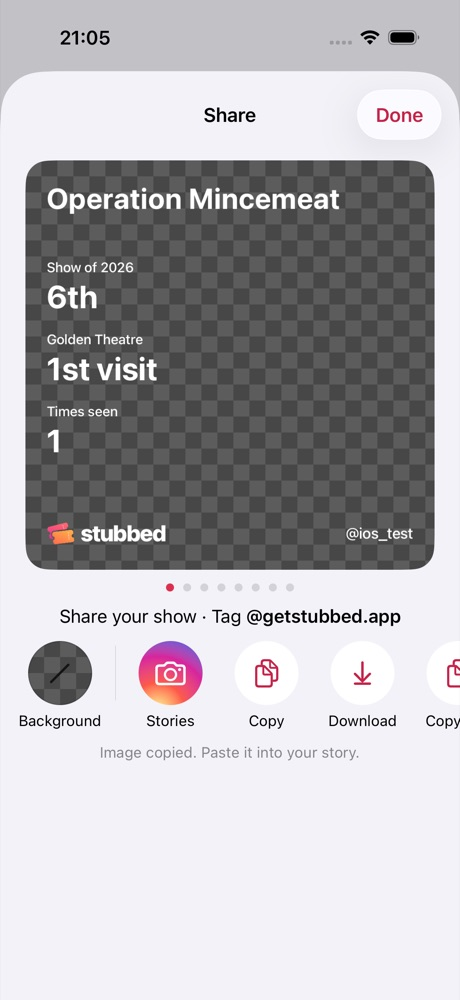
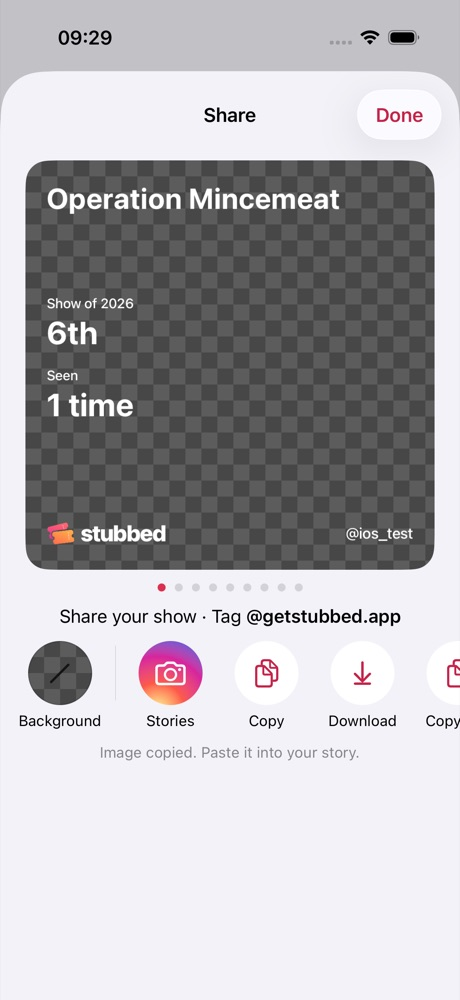
Prioritize show stats and add a dedicated venue visits card

Changed region(s): [[0.0913, 0.248, 0.3348, 0.465], [0.3348, 0.558, 0.6391, 0.589], [0.1217, 0.031, 0.2435, 0.062]]

diff --git a/apps/ios/Stubbed/Screens/Share/EntryCard.swift b/apps/ios/Stubbed/Screens/Share/EntryCard.swift
@@ -17,6 +17,7 @@ struct EntryCardData: Hashable, Sendable {
 enum EntryCardDesign: String, CaseIterable, Identifiable, Sendable {
   case stats, name, data, encore, overlay, ticket
   case number = "show-number"
+  case venue = "venue-visits"
   var id: String { rawValue }
   var name: String {
     switch self {
@@ -27,12 +28,14 @@ enum EntryCardDesign: String, CaseIterable, Identifiable, Sendable {
     case .number: "Show number"
     case .overlay: "Show overlay"
     case .ticket: "Ticket stub"
+    case .venue: "Venue visits"
     }
   }
   var isPhoto: Bool { self == .stats || self == .name }
-  static func available(photo: Bool, rating: Double?, timesSeen: Int) -> [Self] {
+  static func available(photo: Bool, rating: Double?, timesSeen: Int, venue: String? = nil, venueVisit: Int = 0) -> [Self] {
     (photo ? [.stats] + (rating != nil ? [.name] : []) : [])
       + [.data, .encore, .number, .overlay, .ticket]
+      + (venue?.trimmingCharacters(in: .whitespacesAndNewlines).isEmpty == false && venueVisit > 0 ? [.venue] : [])
   }
 }
 
@@ -55,6 +58,10 @@ func ordinal(_ n: Int) -> String {
   }
 }
 
+func formatTimes(_ count: Int) -> String {
+  "\(count) \(count == 1 ? "time" : "times")"
+}
+
 struct EntryCardView: View {
   let design: EntryCardDesign
   let data: EntryCardData
@@ -63,10 +70,7 @@ struct EntryCardView: View {
   static let size: CGFloat = 540
   private var ink: Color { design.isPhoto ? .white : appearance.foreground }
   private var metrics: [(String, String)] {
-    var result = [("Show of \(data.year)", ordinal(data.showOfYear))]
-    if let venue = data.venue { result.append((venue, "\(ordinal(data.venueVisit)) visit")) }
-    result.append(("Times seen", String(data.timesSeen)))
-    return result
+    [("Show of \(data.year)", ordinal(data.showOfYear)), ("Seen", formatTimes(data.timesSeen))]
   }
   var body: some View {
     ZStack {
@@ -82,6 +86,8 @@ struct EntryCardView: View {
       } else { ShareCardSurface(appearance: appearance) }
       if design == .ticket {
         TicketOverlayCard(data: data, ink: ink)
+      } else if design == .venue {
+        VenueVisitCard(data: data, appearance: appearance)
       } else if design == .overlay {
         ShowOverlayCard(data: data, ink: ink)
       } else {
@@ -135,6 +141,29 @@ struct EntryCardView: View {
   }
 }
 
+/// Fixed regions keep long venue/show names clear of the count and footer.
+private struct VenueVisitCard: View {
+  let data: EntryCardData
+  let appearance: ShareAppearance
+  private var ink: Color { appearance.foreground }
+
+  var body: some View {
+    ZStack(alignment: .topLeading) {
+      Text("Venue").font(.system(size: 18, weight: .medium)).offset(x: 28, y: 28)
+      CardTitle(text: data.venue ?? "", size: 38, lineHeight: 42, width: 484, ink: ink)
+        .offset(x: 28, y: 58)
+      Text("Visited").font(.system(size: 18, weight: .medium)).offset(x: 28, y: 192)
+      Text(formatTimes(data.venueVisit)).font(.system(size: 64, weight: .heavy)).tracking(-1)
+        .foregroundStyle(appearance.statsAccent).lineLimit(1).minimumScaleFactor(0.6)
+        .frame(width: 484, alignment: .leading).offset(x: 28, y: 220)
+      Text("Seeing").font(.system(size: 18, weight: .medium)).offset(x: 28, y: 354)
+      CardTitle(text: data.title, size: 28, lineHeight: 32, width: 484, ink: ink)
+        .offset(x: 28, y: 384)
+      CardFooter(handle: data.handle, ink: ink).frame(width: 484).offset(x: 28, y: 472)
+    }.foregroundStyle(ink).frame(width: 540, height: 540, alignment: .topLeading)
+  }
+}
+
 /// Four equally sized sections, followed by the design system's outline icon.
 private struct ShowOverlayCard: View {
   let data: EntryCardData
@@ -146,7 +175,7 @@ private struct ShowOverlayCard: View {
       VStack(spacing: 8) {
         section("Show", value: data.title, title: true)
         section("Date", value: today.formatted(.dateTime.weekday(.abbreviated).day().month(.abbreviated).year().locale(Locale(identifier: "en_GB"))))
-        section("Seen", value: "\(data.timesSeen) \(data.timesSeen == 1 ? "time" : "times")")
+        section("Seen", value: formatTimes(data.timesSeen))
         section(data.year == Calendar.current.component(.year, from: today) ? "This year so far" : "\(data.year) so far",
           value: "\(ordinal(data.showOfYear)) show")
       }.padding(.top, 48)
@@ -184,7 +213,7 @@ private struct TicketOverlayCard: View {
           Text(today, format: .dateTime.weekday(.abbreviated).day().month(.abbreviated).year())
             .font(.system(size: 18, weight: .medium))
         }.frame(width: 368, alignment: .leading).offset(x: 56, y: 44)
-        stat("Seen", value: "\(data.timesSeen) \(data.timesSeen == 1 ? "time" : "times")", width: 148)
+        stat("Seen", value: formatTimes(data.timesSeen), width: 148)
           .offset(x: 56, y: 194)
         stat(data.year == Calendar.current.component(.year, from: today) ? "This year so far" : "\(data.year) so far",
           value: "\(ordinal(data.showOfYear)) show", width: 168).offset(x: 246, y: 194)

diff --git a/apps/web/test/sharing.test.ts b/apps/web/test/sharing.test.ts
@@ -1,6 +1,6 @@
 import assert from "node:assert/strict";
 import { test } from "node:test";
-import { availableEntryDesigns, cardBackground, entryMetrics, type CardData } from "@/lib/share-card";
+import { availableEntryDesigns, cardBackground, entryMetrics, formatTimes, type CardData } from "@/lib/share-card";
 import { availableInsightDesigns, availableShowDesigns, isInsightDesign, monthlyShareCounts, radarShareValues, type InsightCardData } from "@/lib/share-card-insights";
 const entry: CardData = { title: "Operation Mincemeat", venue: "Fortune Theatre", where: "London", date: "1 Nov 2026", year: 2026, rating: 0.5, showOfYear: 24, venueVisit: 3, timesSeen: 5, handle: "sillyelphaba" };
 const insights: InsightCardData = { year: 2026, handle: "sillyelphaba", stats: { total: 24, unique_shows: 18,
@@ -8,14 +8,14 @@ const insights: InsightCardData = { year: 2026, handle: "sillyelphaba", stats: {
   years: [{ year: 2026, count: 24 }], months: [{ month: "2025-01", count: 99 }, { month: "2026-10", count: 24 }],
   types: [{ type: "play", count: 6 }, { type: "musical", count: 12 }, { type: "opera", count: 2 }, { type: "comedy", count: 2 }, { type: "dance", count: 1 }, { type: "standup", count: 1 }] } };
 test("entry sharing separates photo eligibility, saved ratings and repeat visits", () => {
-  assert.deepEqual(availableEntryDesigns(entry, true).map(d => d.id), ["stats", "name", "data", "encore", "show-number", "overlay", "ticket"]);
-  assert.deepEqual(availableEntryDesigns({ ...entry, rating: null, timesSeen: 1 }, false).map(d => d.id), ["data", "encore", "show-number", "overlay", "ticket"]);
+  assert.deepEqual(availableEntryDesigns(entry, true).map(d => d.id), ["stats", "name", "data", "encore", "show-number", "overlay", "ticket", "venue-visits"]);
+  assert.deepEqual(availableEntryDesigns({ ...entry, rating: null, timesSeen: 1 }, false).map(d => d.id), ["data", "encore", "show-number", "overlay", "ticket", "venue-visits"]);
   assert.ok(!availableEntryDesigns({ ...entry, rating: null }, true).some(d => d.id === "name"));
   for (const design of availableEntryDesigns(entry, true)) assert.equal(cardBackground(design, "transparent"), design.background ? "transparent" : "photo");
 });
 test("data cards never acquire rating fields or duplicate the missing venue", () => {
-  assert.deepEqual(entryMetrics(entry).map(m => m.value), ["24th", "3rd visit", "5"]);
-  assert.deepEqual(entryMetrics({ ...entry, venue: null }).map(m => m.label), ["Show of 2026", "Times seen"]);
+  assert.deepEqual(entryMetrics(entry).map(m => m.value), ["24th", "5 times"]);
+  assert.deepEqual(entryMetrics({ ...entry, venue: null }).map(m => m.label), ["Show of 2026", "Seen"]);
 });
 test("Insights period selection cannot relabel live streaks or make a fake All time year", () => {
   assert.deepEqual(availableInsightDesigns(insights, 2026).map(d => d.id), ["weekly-streak", "year-in-theatre", "show-mix"]);
@@ -29,13 +29,27 @@ test("charts preserve monthly periods and canonical show-type order", () => {
   assert.deepEqual(radarShareValues(insights), [12, 6, 2, 1, 2, 1, 0]);
 });
 
-test("one show offers all ten designs and names the first count card truthfully", () => {
+test("one show offers all eleven designs and names the first count card truthfully", () => {
   const designs = availableShowDesigns({ ...entry, timesSeen: 1, year: 2025 }, true, { ...insights, year: new Date().getFullYear() });
-  assert.equal(designs.length, 10);
+  assert.equal(designs.length, 11);
   assert.equal(designs.find(d => d.id === "encore")?.name, "First visit");
   assert.equal(availableEntryDesigns(entry, true).find(d => d.id === "encore")?.name, "Encore");
   assert.deepEqual(designs.filter(d => isInsightDesign(d.id)).map(d => d.id), ["weekly-streak", "year-in-theatre", "show-mix"]);
   const empty = { ...insights, year: new Date().getFullYear(), stats: { ...insights.stats, total: 0, streaks: { ...insights.stats.streaks, current_weekly: 0 } } };
-  assert.equal(availableShowDesigns(entry, true, empty).length, 10);
+  assert.equal(availableShowDesigns(entry, true, empty).length, 11);
   assert.equal(availableInsightDesigns(empty).length, 0);
+});
+
+test("Seen uses singular and plural and venue cards require a real count", () => {
+  assert.equal(formatTimes(0), "0 times");
+  assert.equal(formatTimes(1), "1 time");
+  assert.equal(formatTimes(2), "2 times");
+  assert.deepEqual(entryMetrics({ ...entry, timesSeen: 1 }), [
+    { label: "Show of 2026", value: "24th" }, { label: "Seen", value: "1 time" },
+  ]);
+  for (const data of [{ ...entry, venue: null }, { ...entry, venue: " " }, { ...entry, venueVisit: 0 }]) {
+    assert.ok(!availableEntryDesigns(data, false).some(d => d.id === "venue-visits"));
+  }
+  const cards = availableShowDesigns(entry, true, insights);
+  assert.equal(cards.findIndex(d => d.id === "venue-visits") + 1, cards.findIndex(d => d.id === "year-in-theatre"));
 });

diff --git a/apps/web/src/lib/share-card.ts b/apps/web/src/lib/share-card.ts
@@ -30,9 +30,10 @@ export const CARD_DESIGNS: CardDesign[] = [
   { id: "show-number", name: "Show number", background: true },
   { id: "overlay", name: "Show overlay", background: true },
   { id: "ticket", name: "Ticket stub", background: true },
+  { id: "venue-visits", name: "Venue visits", background: true },
 ];
 export function availableEntryDesigns(data: CardData, photo: boolean) {
-  return CARD_DESIGNS.filter(d => (!d.photo || photo) && (d.id !== "name" || data.rating != null)).map(d => d.id === "encore" && data.timesSeen === 1 ? { ...d, name: "First visit" } : d);
+  return CARD_DESIGNS.filter(d => (!d.photo || photo) && (d.id !== "name" || data.rating != null) && (d.id !== "venue-visits" || Boolean(data.venue?.trim() && data.venueVisit > 0))).map(d => d.id === "encore" && data.timesSeen === 1 ? { ...d, name: "First visit" } : d);
 }
 export function cardBackground(design: CardDesign, chosen: ShareBackground) {
   return design.background ? chosen : "photo";
@@ -40,9 +41,12 @@ export function cardBackground(design: CardDesign, chosen: ShareBackground) {
 export function entryMetrics(data: CardData) {
   return [
     { label: `Show of ${data.year}`, value: ordinal(data.showOfYear) },
-    ...(data.venue ? [{ label: data.venue, value: `${ordinal(data.venueVisit)} visit` }] : []),
-    { label: "Times seen", value: String(data.timesSeen) },
+    { label: "Seen", value: formatTimes(data.timesSeen) },
   ];
+}
+
+export function formatTimes(count: number) {
+  return `${count} ${count === 1 ? "time" : "times"}`;
 }
 
 export const CARD_SIZE = 1080;
@@ -232,6 +236,16 @@ export async function renderCard(
       } else if (designId === "overlay") {
         drawShowOverlay(ctx, data, color, outlineMark);
         return;
+      } else if (designId === "venue-visits") {
+        ctx.fillStyle = color; ctx.textBaseline = "top"; ctx.textAlign = "left";
+        setFont(ctx, 500, 18, TEXT, 0); ctx.fillText("Venue", 28, 28);
+        drawTopTitle(ctx, data.venue!, 58, color);
+        setFont(ctx, 500, 18, TEXT, 0); ctx.fillText("Visited", 28, 192);
+        ctx.fillStyle = background === "transparent" && ink === "dark" ? "#DC2F4F" : CORAL;
+        setFont(ctx, 800, 64, DISPLAY, -1); ctx.fillText(formatTimes(data.venueVisit), 28, 220, 484);
+        ctx.fillStyle = color;
+        setFont(ctx, 500, 18, TEXT, 0); ctx.fillText("Seeing", 28, 354);
+        drawTopTitle(ctx, data.title, 384, color, 28);
       } else if (designId === "data") {
         const titleH = drawTopTitle(ctx, data.title, 28, color);
         const start = Math.max(138, 28 + titleH + 20);
@@ -262,7 +276,7 @@ function drawShowOverlay(ctx: Ctx, data: CardData, color: string, mark: HTMLImag
   const sections = [
     { label: "Show", value: data.title },
     { label: "Date", value: shareDate(today) },
-    { label: "Seen", value: `${data.timesSeen} ${data.timesSeen === 1 ? "time" : "times"}` },
+    { label: "Seen", value: formatTimes(data.timesSeen) },
     { label: data.year === today.getFullYear() ? "This year so far" : `${data.year} so far`, value: `${ordinal(data.showOfYear)} show` },
   ];
   ctx.fillStyle = color; ctx.textAlign = "center"; ctx.textBaseline = "top";
@@ -326,7 +340,7 @@ function drawTicketOverlay(ctx: Ctx, data: CardData, color: string, ticket: HTML
   ctx.fillText("Seen", 56, 194);
   ctx.fillText(data.year === today.getFullYear() ? "This year so far" : `${data.year} so far`, 246, 194);
   setFont(ctx, 700, 24, DISPLAY, -0.3);
-  ctx.fillText(`${data.timesSeen} ${data.timesSeen === 1 ? "time" : "times"}`, 56, 220, 148);
+  ctx.fillText(formatTimes(data.timesSeen), 56, 220, 148);
   ctx.fillText(`${ordinal(data.showOfYear)} show`, 246, 220, 168);
   // Keep the branding in the ticket’s coordinates: parallel, 19pt below it.
   drawTicketBrand(ctx, mark);

diff --git a/apps/ios/StubbedUITests/CombinedShareUITests.swift b/apps/ios/StubbedUITests/CombinedShareUITests.swift
@@ -2,7 +2,7 @@ import XCTest
 
 final class CombinedShareUITests: XCTestCase {
   override func setUp() { continueAfterFailure = false }
-  @MainActor func testAllTenCardsFromOneShow() throws {
+  @MainActor func testAllElevenCardsFromOneShow() throws {
     let app = launchApp()
     signOutIfNeeded(app)
     try signIn(app)
@@ -22,14 +22,14 @@ final class CombinedShareUITests: XCTestCase {
     func card(_ name: String) -> XCUIElement {
       app.images.matching(NSPredicate(format: "label CONTAINS %@", name)).firstMatch
     }
-    XCTAssertTrue(card("1 of 10").waitForExistence(timeout: 25))
+    XCTAssertTrue(card("1 of 11").waitForExistence(timeout: 25))
     XCTAssertFalse(app.buttons["Background"].isEnabled)
     card("data + photo").swipeLeft()
     XCTAssertTrue(card("rating + photo").waitForExistence(timeout: 5))
     XCTAssertFalse(app.buttons["Background"].isEnabled)
     card("rating + photo").swipeLeft()
-    XCTAssertTrue(card("3 of 10").waitForExistence(timeout: 5))
-    card("3 of 10").swipeLeft()
+    XCTAssertTrue(card("3 of 11").waitForExistence(timeout: 5))
+    card("3 of 11").swipeLeft()
     XCTAssertTrue(card("first visit").waitForExistence(timeout: 5))
     snapshot("combined-first-visit")
     card("first visit").swipeLeft()
@@ -53,12 +53,16 @@ final class CombinedShareUITests: XCTestCase {
     XCTAssertTrue(card("no background").waitForExistence(timeout: 5))
     snapshot("combined-weekly-streak")
     card("weekly streak").swipeLeft()
+    XCTAssertTrue(card("venue visits").waitForExistence(timeout: 5))
+    snapshot("combined-venue-visits")
+    card("venue visits").swipeLeft()
     XCTAssertTrue(card("year in theatre").waitForExistence(timeout: 5))
     card("year in theatre").swipeLeft()
     XCTAssertTrue(card("show mix").waitForExistence(timeout: 5))
     snapshot("combined-show-mix")
     card("show mix").swipeRight()
     card("year in theatre").swipeRight()
+    card("venue visits").swipeRight()
     card("weekly streak").swipeRight()
     card("ticket stub").swipeRight()
     card("show overlay").swipeRight()

diff --git a/apps/ios/StubbedTests/InsightCardTests.swift b/apps/ios/StubbedTests/InsightCardTests.swift
@@ -67,6 +67,17 @@ struct InsightCardTests {
     #expect(cards.filter(\.isInsights).map(\.id) == ["weekly-streak", "year-in-theatre", "show-mix"])
     #expect(cards.filter(\.isInsights).allSatisfy { $0.supportsBackground })
     #expect(cards.allSatisfy { $0.image.cgImage?.width == 1080 })
+    var venueEntry = entry
+    // Exercise long names in both fixed text regions of the venue export.
+    venueEntry.venue = "The Stephen Sondheim Theatre at the Harold Pinter"
+    venueEntry.title = "The Curious Incident of the Dog in the Night-Time"
+    venueEntry.venueVisit = 3
+    let withVenue = try ShareCards.showCards(venueEntry, photo: photo, insights: insights)
+    let venueIndex = try #require(withVenue.firstIndex { $0.id == "venue-visits" })
+    #expect(withVenue[venueIndex + 1].id == "year-in-theatre")
+    #expect(!withVenue[venueIndex].isInsights)
+    #expect(withVenue[venueIndex].supportsBackground)
+
   }
 
   @Test @MainActor func selectedCardPreparationIsCompleteAndCancellable() async throws {

diff --git a/apps/web/src/lib/share-card-insights.ts b/apps/web/src/lib/share-card-insights.ts
@@ -27,7 +27,14 @@ export function availableInsightDesigns(data: InsightCardData, currentYear = new
     : (data.stats.total > 0 || includingEmpty) && (design.id !== "year-in-theatre" || data.year != null));
 }
 export function availableShowDesigns(data: CardData, photo: boolean, insights: InsightCardData) {
-  return [...availableEntryDesigns(data, photo), ...availableInsightDesigns(insights, new Date().getFullYear(), true)];
+  const entries = availableEntryDesigns(data, photo);
+  const venue = entries.find(design => design.id === "venue-visits");
+  const designs = [...entries.filter(design => design.id !== "venue-visits"), ...availableInsightDesigns(insights, new Date().getFullYear(), true)];
+  if (venue) {
+    const year = designs.findIndex(design => design.id === "year-in-theatre");
+    designs.splice(year < 0 ? designs.length : year, 0, venue);
+  }
+  return designs;
 }
 export function isInsightDesign(id: string) {
   return INSIGHT_CARD_DESIGNS.some(design => design.id === id);

diff --git a/apps/ios/StubbedTests/ShareCardTests.swift b/apps/ios/StubbedTests/ShareCardTests.swift
@@ -75,6 +75,19 @@ struct ShareCardTests {
     #expect(EntryCardDesign.available(photo: true, rating: 1, timesSeen: 5) == [.stats, .name, .data, .encore, .number, .overlay, .ticket])
   }
 
+  @Test func seenCountGrammarAndVenueEligibility() {
+    #expect(formatTimes(0) == "0 times")
+    #expect(formatTimes(1) == "1 time")
+    #expect(formatTimes(2) == "2 times")
+    func designs(_ venue: String?, _ count: Int) -> [EntryCardDesign] {
+      EntryCardDesign.available(photo: false, rating: nil, timesSeen: 1, venue: venue, venueVisit: count)
+    }
+    #expect(designs("Fortune Theatre", 3).contains(.venue))
+    #expect(!designs(nil, 3).contains(.venue))
+    #expect(!designs(" ", 3).contains(.venue))
+    #expect(!designs("Fortune Theatre", 0).contains(.venue))
+  }
+
   @Test @MainActor func repeatedRendersCannotOverwriteAnEarlierExport() throws {
     let first = try ShareCards.render(EntryCardView(design: .data, data: data, photo: nil), name: "same-show")
     var later = data

diff --git a/apps/ios/Stubbed/Screens/Share/InsightCard.swift b/apps/ios/Stubbed/Screens/Share/InsightCard.swift
@@ -269,8 +269,14 @@ struct ShareRadar: View {
 extension ShareCards {
   @MainActor static func showCards(_ data: EntryCardData, photo: UIImage?, insights: InsightCardData) throws -> [RenderedCard] {
     // Keep the show carousel focused; the expanded stats collection lives in Insights.
-    try entryCards(data, photo: photo) + insightsCards(
+    var cards = try entryCards(data, photo: photo) + insightsCards(
       insights, includingEmpty: true, designs: [.weekly, .year, .mix])
+    if let index = cards.firstIndex(where: { $0.id == EntryCardDesign.venue.id }) {
+      let venue = cards.remove(at: index)
+      let year = cards.firstIndex(where: { $0.id == InsightCardDesign.year.id }) ?? cards.endIndex
+      cards.insert(venue, at: year)
+    }
+    return cards
   }
   @MainActor static func insightsCards(
     _ data: InsightCardData, includingEmpty: Bool = false, designs: [InsightCardDesign]? = nil

diff --git a/apps/ios/Stubbed/Screens/Share/ShareCarousel.swift b/apps/ios/Stubbed/Screens/Share/ShareCarousel.swift
@@ -44,7 +44,7 @@ enum ShareCards {
     return parts.isEmpty ? "show" : parts.joined(separator: "-")
   }
   @MainActor static func entryCards(_ data: EntryCardData, photo: UIImage?) throws -> [RenderedCard] {
-    try EntryCardDesign.available(photo: photo != nil, rating: data.rating, timesSeen: data.timesSeen).map { design in
+    try EntryCardDesign.available(photo: photo != nil, rating: data.rating, timesSeen: data.timesSeen, venue: data.venue, venueVisit: data.venueVisit).map { design in
       let exportID = design == .encore && data.timesSeen == 1 ? "first-visit" : design.id
       let name = "stubbed-\(slug(data.title))-\(exportID)"
       let full = try render(EntryCardView(design: design, data: data, photo: photo), name: name)

diff --git a/docs/DECISIONS.md b/docs/DECISIONS.md
@@ -1034,3 +1034,5 @@ Owner couldn't edit all of two landing captions (the editor showed only half of 
 - No-photo sharing designs now start transparent, including Insights. The action order is Stories, Copy image, Download, Copy text, Link, More (where applicable). Copy preserves the selected PNG’s alpha on iOS and web, records `copy_image`, and reports clipboard failures without substituting text. Transparent charts use stronger grid/boundary lines, radar vertex markers, higher-opacity visited-country fills, and clearer calendar cells and separators; regular in-app charts retain their appearance.
 
 - Ticket branding now shares the ticket’s rotation and coordinate system, centred 19pt below its lower edge so the outline icon and coral wordmark sit parallel and close beneath it.
+
+- Default entry cards now prioritise show-of-year and Seen / X time(s), removing the venue-visit metric from both photo and data layouts. A separate Venue visits card makes the venue and its visit count primary, with the current show secondary. It appears immediately before Year in theatre and is omitted when the venue or a positive visit count is missing.
